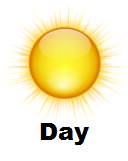
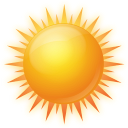
Day and night now have the same font

diff --git a/index.html b/index.html
@@ -57,7 +57,8 @@
 						<div class="col-xs-6">
 							<a href="#">
 								<button type="button" id="dayMode" class="btn btn-default" style="border: 2; background: transparent">
-									<img src="images/sun.jpg" width="70" height="40"/>
+									<img src="images/sun.jpg" width="100vmin" height="100vmin"/>
+									<p class="p3">Day</p>
 								</button>
 							</a>
 						</div>
@@ -65,7 +66,8 @@
 						<div class="col-xs-6">
 							<a href="#">
 								<button type="button" id="nightMode" class="btn btn-default" style="border: 2; background: transparent">
-									<img src="images/moon.jpg" width="70" height="40"/>
+									<img src="images/moon.jpg" width="100vmin" height="100vmin"/>
+									<p class="p3">Night</p>
 								</button>
 							</a>
 						</div>
@@ -76,9 +78,9 @@
 		<div class="row" style="margin:0">
 			<div class="col-xs-5">
 				<div class="panel panel-default">
-					<div class="panel-body txtcenter" style="height:35vmin">
+					<div class="panel-body txtcenter" style="height:40vmin">
 						<div style="display:block">
-							<p>Current Temperature</p>
+							<p class="p3">Current Temperature</p>
 							<h1>
 								<p> <span id="currentTemp"></span>
 								<span id="up" style="color:darkred" class="glyphicon glyphicon-arrow-up p2"></span>
@@ -92,7 +94,7 @@
 			</div>
 			<div class="col-xs-7">
 				<div class="panel panel-default">
-					<div class="panel-body txtcenter" style="height:35vmin">
+					<div class="panel-body txtcenter" style="height:40vmin">
 						<div class="col-xs-6">
 							<a href="#" onclick="raise()">
 								<span class="glyphicon glyphicon-chevron-up" aria-hidden="true"/>
@@ -126,7 +128,7 @@
 						<div class="col-xs-6">
 							<a href="#">
 								<button type="button" class="btn btn-default" style="border: 2; background: transparent">
-									<p>Custom <br>Temp.</p>
+									<p>Vacation <br>Mode</p>
 								</button>
 							</a>
 						</div>

diff --git a/css/index.css b/css/index.css
@@ -62,6 +62,11 @@ p {
     font-size: 3vmin;
 }
 
+.p3{
+	font-size: 4px; 
+    font-size: 4vmin;
+}
+
 button{
     box-shadow: 0 0 10px #989898;
 }
